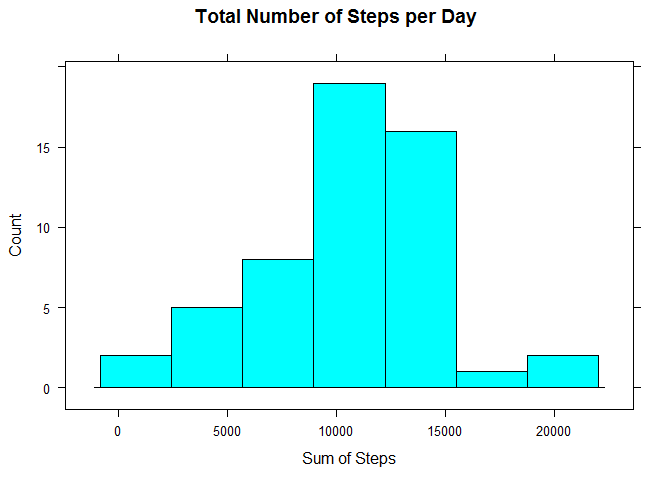
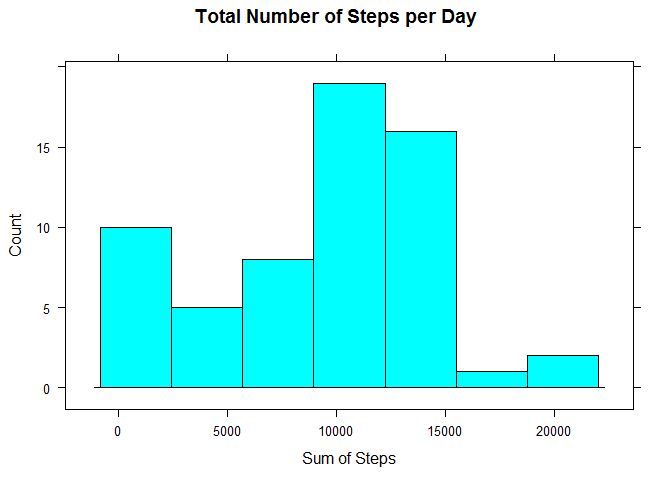
added timeseries

Changed region(s): [[0.125, 0.4688, 0.2812, 0.75]]

diff --git a/PA1_template.html b/PA1_template.html
@@ -64,33 +64,53 @@ img {
 </div>
 
 
-<pre class="r"><code>suppressMessages(library(dplyr))
+<pre class="r"><code>echo = TRUE
+suppressMessages(library(dplyr))
 library(lattice)</code></pre>
 <div id="loading-and-preprocessing-the-data" class="section level2">
 <h2>Loading and preprocessing the data</h2>
 <pre class="r"><code>data &lt;- read.csv(&quot;./data/activity.csv&quot;, sep = &quot;,&quot;)
 data$date &lt;- as.Date(data$date)
+data$weekday &lt;- as.POSIXlt(data$date)$wday
 dataGrouped &lt;- group_by(data, date)
-dataSum &lt;- summarise(dataGrouped, stepsSum = sum(steps))</code></pre>
+dataGroupedInt &lt;- group_by(data, interval)</code></pre>
 </div>
 <div id="what-is-mean-total-number-of-steps-taken-per-day" class="section level2">
 <h2>What is mean total number of steps taken per day?</h2>
-<pre class="r"><code>histogram( ~ stepsSum,data=dataSum, type=&quot;count&quot;, xlab=&quot;Sum of Steps&quot;,
-           ylab=&quot;Count&quot;, main=&quot;Total Number of Steps per Day&quot;)</code></pre>
[1 lines of base64/hex data omitted]
-<pre class="r"><code>mean(tapply(data$steps,data$date,sum), na.rm=TRUE)</code></pre>
-<pre><code>## [1] 10766.19</code></pre>
-<pre class="r"><code>median(tapply(data$steps,data$date,sum), na.rm=TRUE)</code></pre>
-<pre><code>## [1] 10765</code></pre>
+<pre class="r"><code>stepsPerDay &lt;- summarise(dataGrouped, stepsSum = sum(steps, na.rm = TRUE))
+summarise(stepsPerDay, mean(stepsSum), median(stepsSum))</code></pre>
+<pre><code>## Source: local data frame [1 x 2]
+## 
+##   mean(stepsSum) median(stepsSum)
+##            (dbl)            (int)
+## 1        9354.23            10395</code></pre>
+<pre class="r"><code>histogram( ~ stepsSum,data=stepsPerDay, type=&quot;count&quot;, xlab=&quot;Sum of Steps&quot;, ylab=&quot;Count&quot;, main=&quot;Total Number of Steps per Day&quot;)</code></pre>
[1 lines of base64/hex data omitted]
 </div>
 <div id="what-is-the-average-daily-activity-pattern" class="section level2">
 <h2>What is the average daily activity pattern?</h2>
+<p>Timeseries for the steps per Interval</p>
+<pre class="r"><code>stepsPerInterval &lt;- summarise(dataGroupedInt, stepsSum = mean(steps, na.rm = TRUE))
+xyplot(ts(stepsPerInterval$stepsSum), xlab=&quot;5-minute interval&quot;, ylab=&quot;averaged across all days&quot;)</code></pre>
[1 lines of base64/hex data omitted]
+<p>Most steps per Intverval</p>
+<pre class="r"><code>head(arrange(stepsPerInterval, desc(stepsSum)), 1)</code></pre>
+<pre><code>## Source: local data frame [1 x 2]
+## 
+##   interval stepsSum
+##      (int)    (dbl)
+## 1      835 206.1698</code></pre>
 </div>
 <div id="imputing-missing-values" class="section level2">
 <h2>Imputing missing values</h2>
+<pre class="r"><code>sum(is.na(data$steps))</code></pre>
+<pre><code>## [1] 2304</code></pre>
 </div>
 <div id="are-there-differences-in-activity-patterns-between-weekdays-and-weekends" class="section level2">
 <h2>Are there differences in activity patterns between weekdays and weekends?</h2>
+<pre class="r"><code>data$weekday &lt;- (data$weekday &gt; 0 &amp; data$weekday &lt; 6)
+data$weekday = factor(data$weekday, labels = c(&quot;Weekend&quot;, &quot;Weekday&quot;))
+dataGroupedWeekday &lt;- group_by(data, weekday)</code></pre>
 </div>
 
 

diff --git a/PA1_template.md b/PA1_template.md
@@ -1,6 +1,7 @@
 # Reproducible Research: Peer Assessment 1
 
 ```r
+echo = TRUE
 suppressMessages(library(dplyr))
 library(lattice)
 ```
@@ -10,41 +11,70 @@ library(lattice)
 ```r
 data <- read.csv("./data/activity.csv", sep = ",")
 data$date <- as.Date(data$date)
+data$weekday <- as.POSIXlt(data$date)$wday
 dataGrouped <- group_by(data, date)
-dataSum <- summarise(dataGrouped, stepsSum = sum(steps))
+dataGroupedInt <- group_by(data, interval)
 ```
 
 ## What is mean total number of steps taken per day?
 
 ```r
-histogram( ~ stepsSum,data=dataSum, type="count", xlab="Sum of Steps",
-           ylab="Count", main="Total Number of Steps per Day")
+stepsPerDay <- summarise(dataGrouped, stepsSum = sum(steps, na.rm = TRUE))
+summarise(stepsPerDay, mean(stepsSum), median(stepsSum))
+```
+
+```
+## Source: local data frame [1 x 2]
+## 
+##   mean(stepsSum) median(stepsSum)
+##            (dbl)            (int)
+## 1        9354.23            10395
+```
+
+```r
+histogram( ~ stepsSum,data=stepsPerDay, type="count", xlab="Sum of Steps", ylab="Count", main="Total Number of Steps per Day")
 ```
 
 ![](PA1_template_files/figure-html/unnamed-chunk-3-1.png) 
 
-```r
-mean(tapply(data$steps,data$date,sum), na.rm=TRUE)
-```
-
-```
-## [1] 10766.19
-```
-
-```r
-median(tapply(data$steps,data$date,sum), na.rm=TRUE)
-```
-
-```
-## [1] 10765
-```
-
 ## What is the average daily activity pattern?
+Timeseries for the steps per Interval
 
+```r
+stepsPerInterval <- summarise(dataGroupedInt, stepsSum = mean(steps, na.rm = TRUE))
+xyplot(ts(stepsPerInterval$stepsSum), xlab="5-minute interval", ylab="averaged across all days")
+```
 
+![](PA1_template_files/figure-html/unnamed-chunk-4-1.png) 
+
+Most steps per Intverval
+
+```r
+head(arrange(stepsPerInterval, desc(stepsSum)), 1)
+```
+
+```
+## Source: local data frame [1 x 2]
+## 
+##   interval stepsSum
+##      (int)    (dbl)
+## 1      835 206.1698
+```
 
 ## Imputing missing values
 
+```r
+sum(is.na(data$steps))
+```
 
+```
+## [1] 2304
+```
 
 ## Are there differences in activity patterns between weekdays and weekends?
+
+```r
+data$weekday <- (data$weekday > 0 & data$weekday < 6)
+data$weekday = factor(data$weekday, labels = c("Weekend", "Weekday"))
+dataGroupedWeekday <- group_by(data, weekday)
+```
